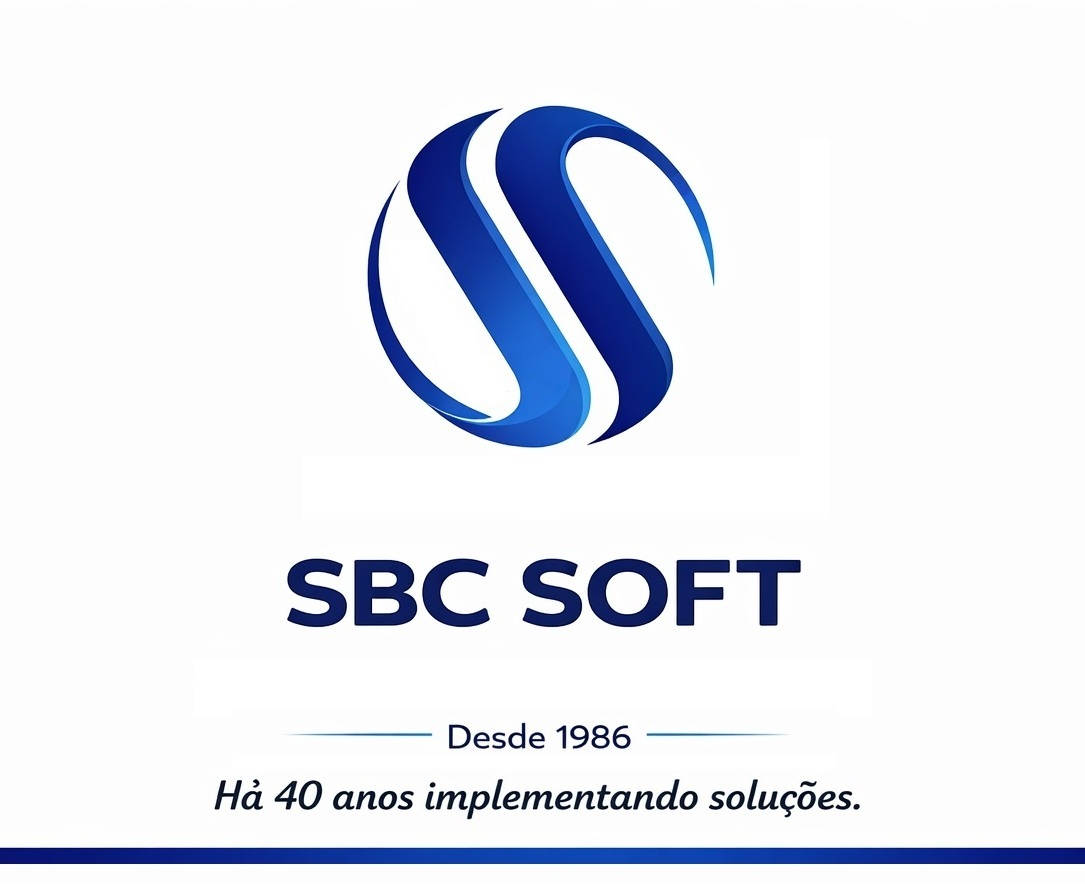
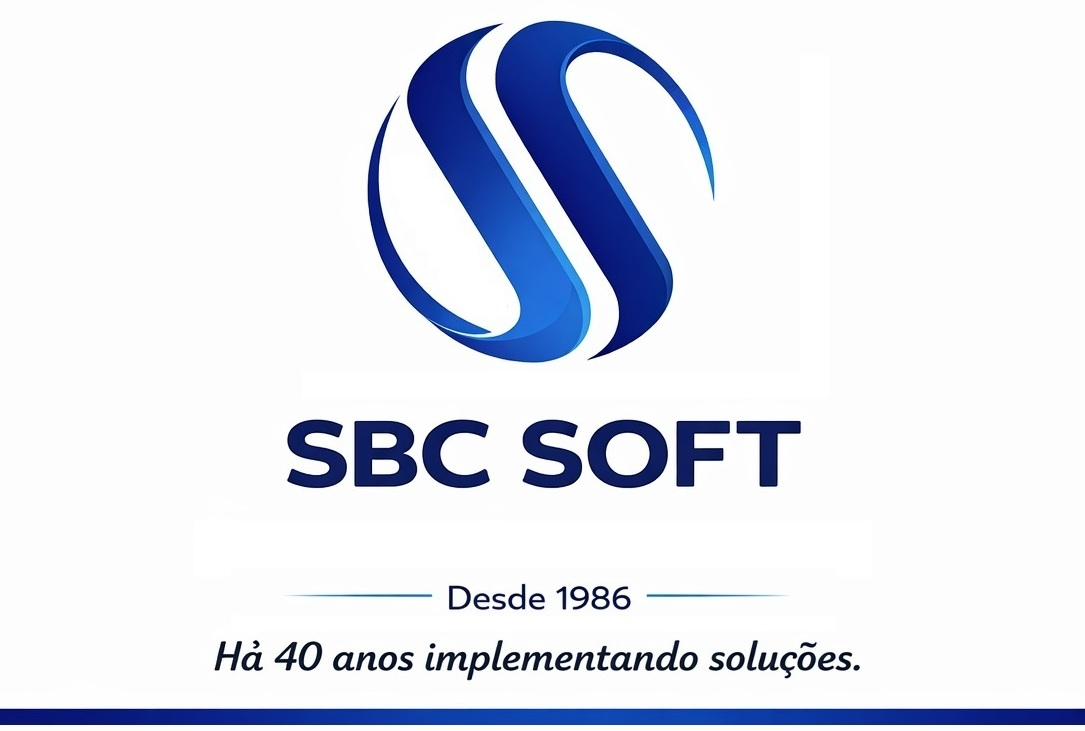
Add files via upload

diff --git a/index.html b/index.html
@@ -21,16 +21,16 @@
         }
 
         .cabecalho {
-            width: 40%;
+            width: 45%;
         }
 
         .logo {
-            width: 60%;
+            width: 50%;
         }
 
         .icone {
-            width: 20%;
-            max-width: 120px;
+            width: 70%;
+            max-width: 360px;
         }
 
         /* 📱 Ajustes para celular */
@@ -44,7 +44,7 @@
             }
 
             .icone {
-                width: 30%;
+                width: 80%;
             }
         }
     </style>
@@ -54,10 +54,10 @@
 
    
 
-    <img src="sbc.jpg" class="logo">
-
+    <img src="sbc.jpg" class="logo"><p>
+ <img src="cab.jpg" class="cabecalho">
     <div>
-        <a href="https://api.whatsapp.com/send?phone=5511981818280">
+       <a href="https://api.whatsapp.com/send?phone=5511981818280">
             <img src="wha.jpg" class="icone">
         </a>
 
@@ -65,6 +65,6 @@
             <img src="ema.jpg" class="icone">
         </a>
     </div>
- <img src="cab.jpg" class="cabecalho">
+
 </body>
 </html>
